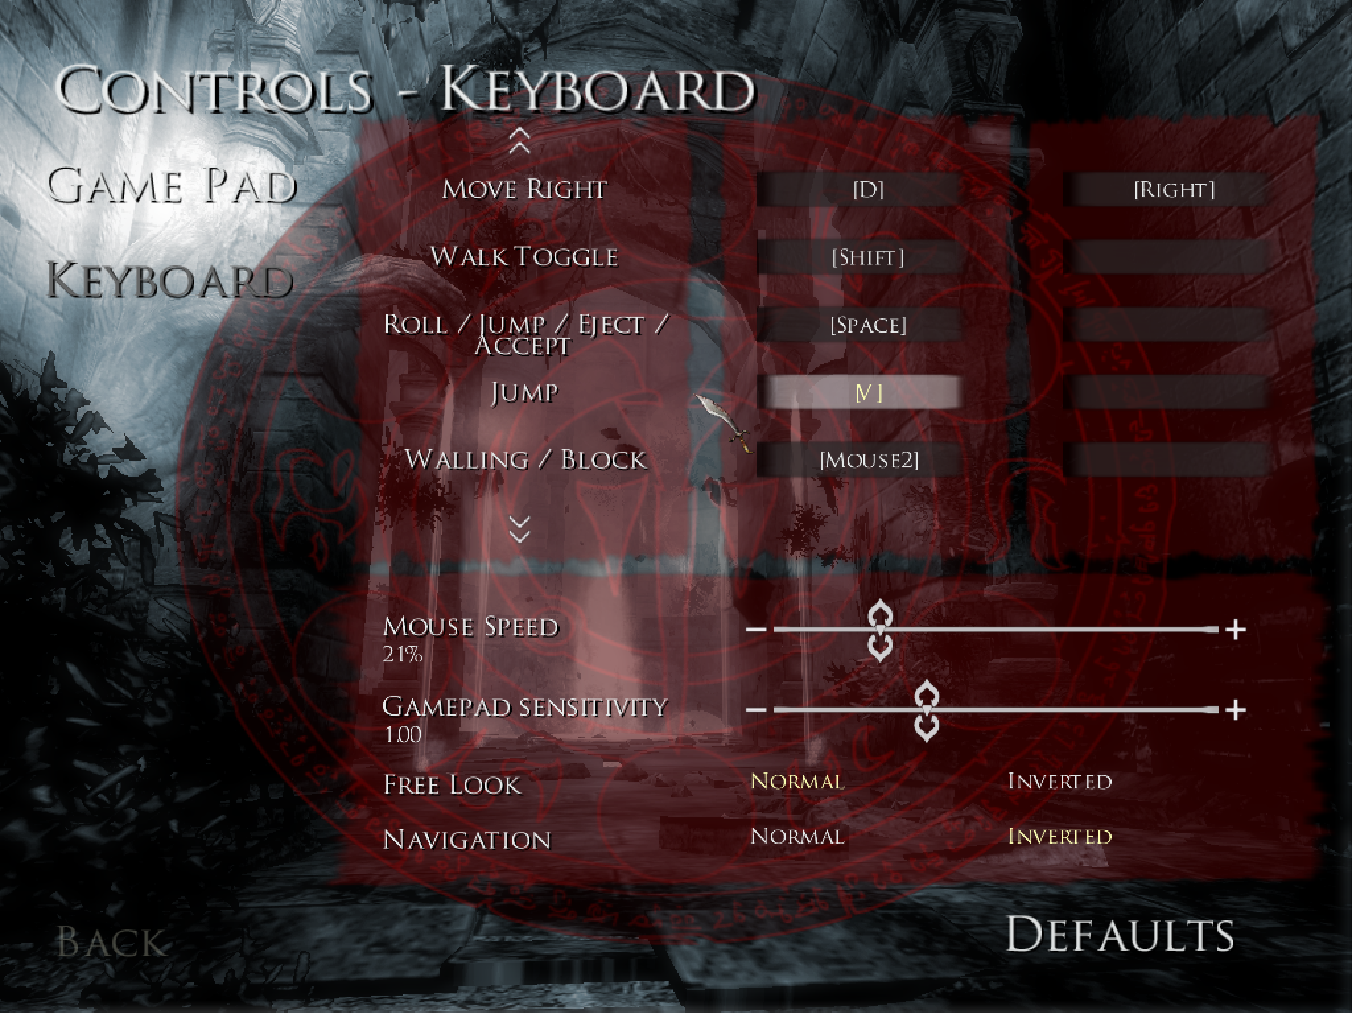
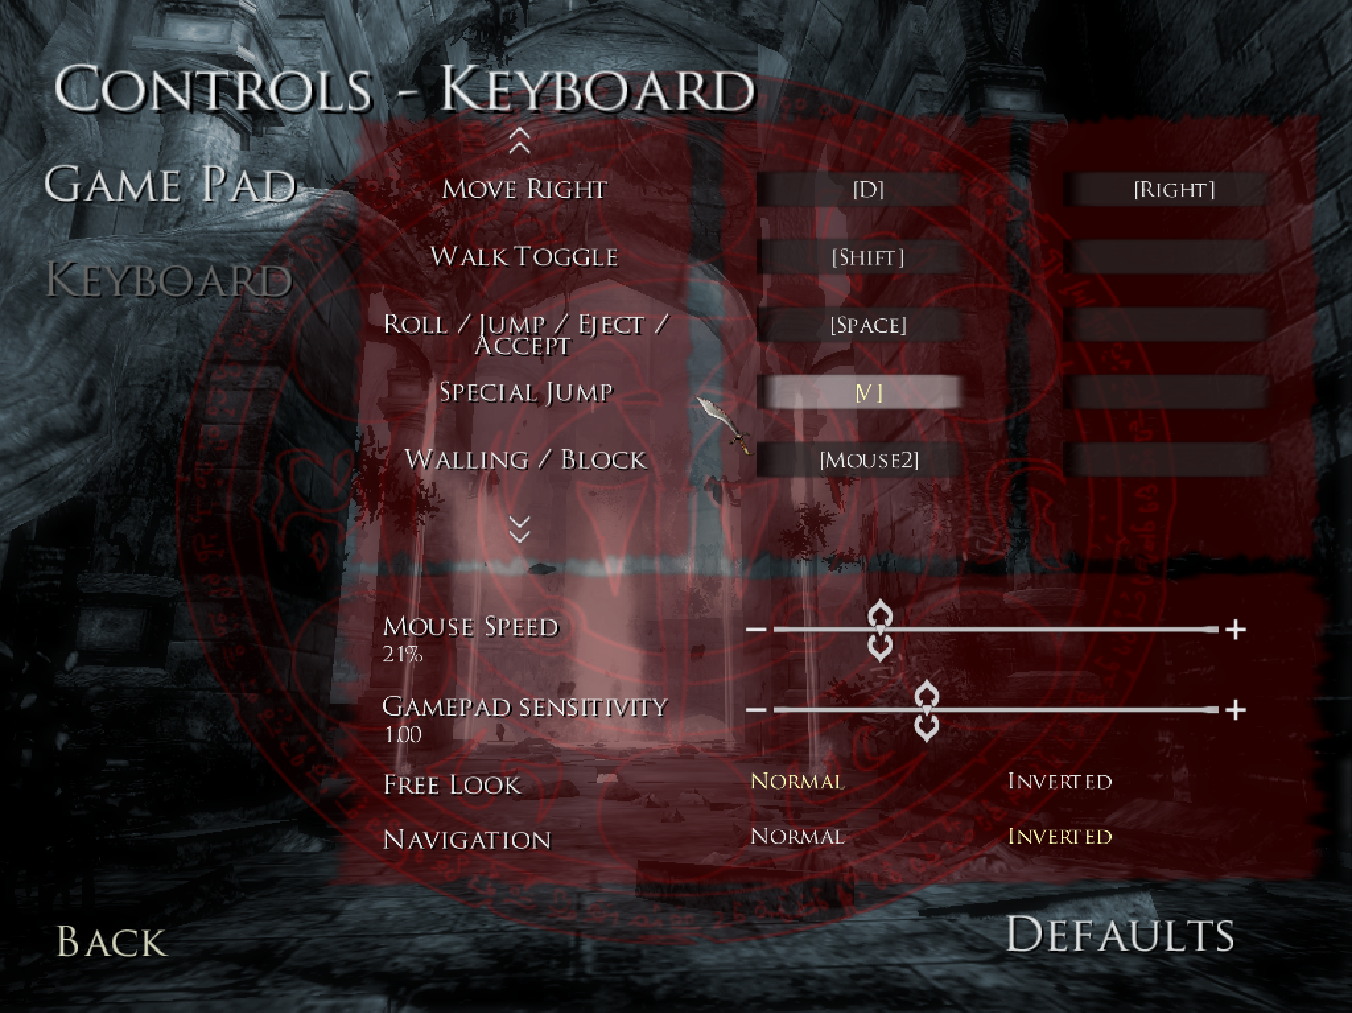
added diagonal torpedos via V+LMB, updated README

diff --git a/pop2_movement_patch.py b/pop2_movement_patch.py
@@ -1,8 +1,9 @@
 """Prince of Persia: Warrior Within (Steam, POP2.EXE) movement patch.
 
 Changes:
-  * Jump key: a new "Jump" action in the Controls menu (after Roll/Jump, default V).
-    It acts as Space everywhere, but direction + Jump is a forward jump instead of a roll.
+  * Special Jump key: a new "Special Jump" action in the Controls menu (after Roll/Jump,
+    default V). It acts as Space everywhere, but direction + Special Jump is a forward jump
+    instead of a roll.
     Space is vanilla again (direction + Space = roll). Existing profiles start with the
     new action unbound: bind it in the menu or use Default settings.
   * Wall-run addon: hold the wall-run button (right mouse by default) while jumping or
@@ -15,8 +16,10 @@ Changes:
     jumping through or over one could skip story progress (also present in vanilla). Such a
     trigger now fires when he lands, as if he had walked through it. Jumping over counts down
     to the take-off height. Only story triggers are affected.
-  * Angled wall jump: jump off a horizontal wall run with the Jump key (V by default) to leap
-    45 degrees toward the running direction. Space still jumps straight out from the wall.
+  * Angled wall jump: jump off a horizontal wall run with the Special Jump key (V by default)
+    to leap 45 degrees toward the running direction. Space still jumps straight out.
+  * Wall torpedo: jump off a horizontal wall run with Special Jump + primary attack (V + left
+    click by default) to dive at 45 degrees in the torpedo attack, with or without an enemy.
 
 Usage: python pop2_movement_patch.py <path to original POP2.EXE> [output file or folder]
            [--vertical-wallruns | --no-vertical-wallruns]
@@ -33,8 +36,8 @@ from pathlib import Path
 
[1 lines of base64/hex data omitted]
 # sha256 of the output with and without vertical wall runs from jumps
[4 lines of base64/hex data omitted]
 
 # sha256 -> description of builds produced by earlier versions of this script
 KNOWN_OLDER_BUILDS = {
@@ -48,6 +51,11 @@ KNOWN_OLDER_BUILDS = {
         "jump key + wall-run addon with vertical runs + stairs-jump and story-trigger fixes",
[1 lines of base64/hex data omitted]
         "jump key + wall-run addon + stairs-jump and story-trigger fixes",
[1 lines of base64/hex data omitted]
+        "jump key + wall-run addon with vertical runs + angled wall jump + stairs-jump and "
+        "story-trigger fixes",
[1 lines of base64/hex data omitted]
+        "jump key + wall-run addon + angled wall jump + stairs-jump and story-trigger fixes",
 }
 
 # Code caves. Addresses in comments are virtual addresses; file offset = VA - 0x400000.
@@ -141,14 +149,14 @@ STAIRSJUMP_GATE_CAVE = bytes.fromhex(  # at 0x8BA5C0, jumped to from the landing
 JUMPKEY_ORDER = bytes.fromhex(
     "27 25 28 26 2D 00 10 07 02 03 01 06 05 04 0A 08 09 2B 2C 29 2A 0C 0E 0F 0D")
 
-JUMPKEY_LABEL = b"Jump\0"  # at 0x8BA300
+JUMPKEY_LABEL = b"Special Jump\0"  # at 0x8BA300 (room for 15 characters before the label cave)
 
 JUMPKEY_LABEL_CAVE = bytes.fromhex(  # at 0x8BA310, hooked from text lookup 0x418050(&group,&key)
     # eax = key c_str   (MSVC 7.1 std::string: +4 inline buffer or pointer, +0x18 capacity)
     "8B 44 24 08 83 78 18 10 72 05 8B 40 04 EB 03 83 C0 04"
     # key == "Action_16" ? (cmp "Acti", "on_1", "6\0") ; else -> orig
     "81 38 41 63 74 69 75 19 81 78 04 6F 6E 5F 31 75 10 66 81 78 08 36 00 75 08"
-    # mov eax, 0x8BA300 ("Jump") ; ret 8
+    # mov eax, 0x8BA300 (JUMPKEY_LABEL) ; ret 8
     "B8 00 A3 8B 00 C2 08 00"
     # orig: mov eax,[esp+4] ; push esi ; mov esi,ecx ; jmp 0x418057   (replayed entry)
     "8B 44 24 04 56 8B F1 E9 08 DD B5 FF"
@@ -237,29 +245,33 @@ STORYTRIGGER_CAVE = bytes.fromhex(  # at 0x8BA3C0, called from 0x5CF620
 # When the Jump key triggered it, the facing is turned 45 degrees toward the wall first,
 # f' = cos45*f - sin45*n (n = wall normal [vars+0x61C], stored by the wall-run handler this
 # frame), so the leap turns 45 degrees from straight out toward the run direction.
+# Every jump-off also stores whether it was a Jump-key jump-off in V_JUMPOFF (byte at 0xDBFCF0),
+# for the wall torpedo below: its attack check runs when the push-off animation ends, when a
+# quick V tap may already be released (and pad bit 16 has no press-time slot).
 WALLJUMP_ANGLE_CAVE = bytes.fromhex(  # at 0x8BA5E0, jumped to from the jump-off 0x591019
-    # test byte [0x93F062], 1 ; 3x nop ; jne angled   (pad bit 16 = Jump key held, set by
-    # PAD_CAVE together with the Space bit, so Space alone keeps the vanilla jump-off)
-    "F6 05 62 F0 93 00 01 90 90 90 75 0B"
+    # mov al,[0x93F062] ; and al,1 ; mov [0xDBFCF0],al ; jne angled   (pad bit 16 = Jump key
+    # held, set by PAD_CAVE together with the Space bit, so Space alone keeps the vanilla
+    # jump-off; eax is free here, 0x59101F pushes and then calls)
+    "A0 62 F0 93 00 24 01 A2 F0 FC DB 00 75 0B"
     # mov edx,[0xD34A48] ; jmp 0x59101F   (replayed hook: vanilla jump-off)
-    "8B 15 48 4A D3 00 E9 28 6A CD FF"
+    "8B 15 48 4A D3 00 E9 26 6A CD FF"
     # angled: pushad ; sub esp,0x18 ; mov ebx,esp   (f = [ebx], f' = [ebx+0xC])
     "60 83 EC 18 89 E3"
     # 0x490850(obj,&f)   facing
-    "53 FF 35 48 4A D3 00 E8 47 62 BD FF 83 C4 08"
+    "53 FF 35 48 4A D3 00 E8 45 62 BD FF 83 C4 08"
     # f'.x = COS45*f.x - SIN45*n.x
-    "D9 05 88 A6 8B 00 D8 8E 1C 06 00 00 D9 5B 0C"
-    "D9 05 84 A6 8B 00 D8 0B D8 63 0C D9 5B 0C"
+    "D9 05 8A A6 8B 00 D8 8E 1C 06 00 00 D9 5B 0C"
+    "D9 05 86 A6 8B 00 D8 0B D8 63 0C D9 5B 0C"
     # f'.y = COS45*f.y - SIN45*n.y
-    "D9 05 88 A6 8B 00 D8 8E 20 06 00 00 D9 5B 10"
-    "D9 05 84 A6 8B 00 D8 4B 04 D8 63 10 D9 5B 10"
+    "D9 05 8A A6 8B 00 D8 8E 20 06 00 00 D9 5B 10"
+    "D9 05 86 A6 8B 00 D8 4B 04 D8 63 10 D9 5B 10"
     # f'.z = 0 ; 0x47C620(&f') flatten + normalize
-    "C7 43 14 00 00 00 00 8D 43 0C 50 E8 C9 1F BC FF 83 C4 04"
+    "C7 43 14 00 00 00 00 8D 43 0C 50 E8 C7 1F BC FF 83 C4 04"
     # up = (0,0,1) on the stack ; 0x4902A0(obj,&f',&up)   set facing
-    "68 00 00 80 3F 6A 00 6A 00 89 E0 50 8D 43 0C 50 FF 35 48 4A D3 00 E8 2B 5C BD FF"
+    "68 00 00 80 3F 6A 00 6A 00 89 E0 50 8D 43 0C 50 FF 35 48 4A D3 00 E8 29 5C BD FF"
     # add esp,0x30 ; popad ; mov edx,[0xD34A48] ; jmp 0x59101F   (replayed hook, new facing)
-    "83 C4 30 61 8B 15 48 4A D3 00 E9 9B 69 CD FF"
-    # COS45 = 0.707107f at VA 0x8BA684 ; SIN45 = 0.707107f at 0x8BA688
+    "83 C4 30 61 8B 15 48 4A D3 00 E9 99 69 CD FF"
+    # COS45 = 0.707107f at VA 0x8BA686 ; SIN45 = 0.707107f at 0x8BA68A
     "F3 04 35 3F F3 04 35 3F"
 )
 
@@ -273,6 +285,27 @@ WALLRUN_LATCH_CAVE = bytes.fromhex(  # at 0x8BA690, jumped to from WALLRUN_CAVE'
     "C7 87 E8 13 00 00 01 00 00 00"
     # add esp,0x60 ; popad ; jmp 0x64DAF7   (handler exit, wall run running)
     "83 C4 60 61 E9 54 34 D9 FF"
+)
+
+# Wall torpedo: when the wall jump-off's push-off animation ends, 0x6D3190 picks an attack from
+# the recent presses. Primary attack picks the torpedo (move 0x273), but only with a target;
+# secondary attack picks the spin and forces it after a horizontal wall jump-off ([esp+0x1C]).
+# After a Jump-key jump-off, primary attack sets that same force flag, so the torpedo launches
+# without a target along the facing, which is then the 45 degree flight direction.
+WALLTORPEDO_CAVE = bytes.fromhex(  # at 0x8BA6B0, jumped to from the primary-attack branch 0x6D32BD
+    # mov ebx,2   (replayed: torpedo kind)
+    "BB 02 00 00 00"
+    # cmp byte [0xDBFCF0],0 ; je back   (not a Jump-key jump-off: vanilla, needs a target)
+    "80 3D F0 FC DB 00 00 74 1B"
+    # push esi ; call 0x497B90 ; add esp,4   (current animation)
+    "56 E8 CC D4 BD FF 83 C4 04"
+    # cmp eax,0x78 ; je force ; cmp eax,0x79 ; jne back   (only the horizontal wall jump-off's
+    # push-off, which always passes the angle cave first, so a stale flag never matters)
+    "83 F8 78 74 05 83 F8 79 75 08"
+    # force: mov dword [esp+0x1C],1   (the force flag the secondary-attack branch sets)
+    "C7 44 24 1C 01 00 00 00"
+    # back: jmp 0x6D32C2
+    "E9 E4 8B E1 FF"
 )
 
 # (file offset, original bytes, new bytes)
@@ -344,6 +377,10 @@ PATCHES = [
     (0x4BA5E0, bytes(len(WALLJUMP_ANGLE_CAVE)), WALLJUMP_ANGLE_CAVE),
     # Wall-run addon: latch cave in the .text slack at 0x8BA690, after the angled wall jump cave
     (0x4BA690, bytes(len(WALLRUN_LATCH_CAVE)), WALLRUN_LATCH_CAVE),
+    # Wall torpedo: 0x6D32BD primary-attack branch of the wall-attack check -> jmp to the cave
+    (0x2D32BD, bytes.fromhex("BB 02 00 00 00"), bytes.fromhex("E9 EE 73 1E 00")),
+    # Wall torpedo: cave in the .text slack at 0x8BA6B0, after the latch cave
+    (0x4BA6B0, bytes(len(WALLTORPEDO_CAVE)), WALLTORPEDO_CAVE),
 ]
 
 # Vertical wall runs from jumps (optional, on by default): the wall-run cave's head-on check at

diff --git a/README.md b/README.md
@@ -6,19 +6,19 @@ distributed. You need your own Steam copy of the game.
 
 ## Features
 
-### Jump key
+### Special Jump key
 
 <p align="center">
-  <img src="media/jump.gif" width="560" alt="The Prince jumping with the new Jump key">
+  <img src="media/jump.gif" width="560" alt="The Prince jumping with the new Special Jump key">
 </p>
 
-A new "Jump" action in *Options > Controls*, listed after Roll/Jump, default **V**. It acts like
-Space everywhere, except that Direction + Jump is a forward jump instead of a roll. Space itself is
-unchanged (Direction + Space still rolls). The key can be rebound like any other action. Remember
-to rebind it in the menu if the profile isn't new.
+A new "Special Jump" action in *Options > Controls*, listed after Roll/Jump, default **V**. It acts
+like Space everywhere, except that Direction + Special Jump is a forward jump instead of a roll. 
+Space itself is unchanged (Direction + Space still rolls). The key can be rebound like any other
+action. Remember to rebind it in the menu if the profile isn't new.
 
 <p align="center">
-  <img src="media/jump-keybind.png" width="560" alt="The keyboard controls menu with the new Jump action bound to V">
+  <img src="media/jump-keybind.png" width="560" alt="The keyboard controls menu with the new Special Jump action bound to V">
 </p>
 
 ### Wall runs from jumps
@@ -40,12 +40,28 @@ You can now also start wallruns by jumping into a wall. Hold the wallrun button 
 rebounding into a wall, and keep holding it to chain wallruns without pressing it again. Vertical
 wallruns are optional; the patcher asks whether to include them.
 
-### Angled wall jump
+### Diagonal wall jump and torpedo
 
-While wallrunning horizontally, jump off with the Jump key (**V**) to leap at 45 degrees toward the
-direction you are running, instead of straight out from the wall. Space still jumps straight out.
-Together with wallruns from jumps, this lets you chain into a wallrun on the next wall, for example
-around a corner.
+<div align="center">
+  <table>
+    <tr>
+      <th>Diagonal jump</th>
+      <th>Diagonal torpedo</th>
+    </tr>
+    <tr>
+      <td><img src="media/diagonal-walljump.gif" width="100%" alt="A diagonal jump off a horizontal wall run"></td>
+      <td><img src="media/diagonal-torpedo.gif" width="100%" alt="A diagonal torpedo attack off a horizontal wall run"></td>
+    </tr>
+  </table>
+</div>
+
+While wallrunning horizontally, jump off with the Special Jump key (**V**) to leap at 45 degrees
+toward the direction you are running, instead of straight out from the wall. **Space still jumps 
+straight out**. Together with wallruns from jumps, this lets you chain into a wallrun on the next 
+wall, for example around a corner.
+
+Press the Special Jump key together with the primary attack (**V + Left click**) to launch the 
+torpedo attack along the same diagonal instead, with or without an enemy nearby.
 
 ### Story-trigger fix
 
@@ -77,8 +93,8 @@ it, and verifies the sha256 of the result:
 
 | Version | sha256 |
 |---|---|
[4 lines of base64/hex data omitted]
 
 If you previously applied an older version of these mods, restore the original exe first (from your
 backup, or *Steam > Properties > Installed Files > Verify integrity*).
